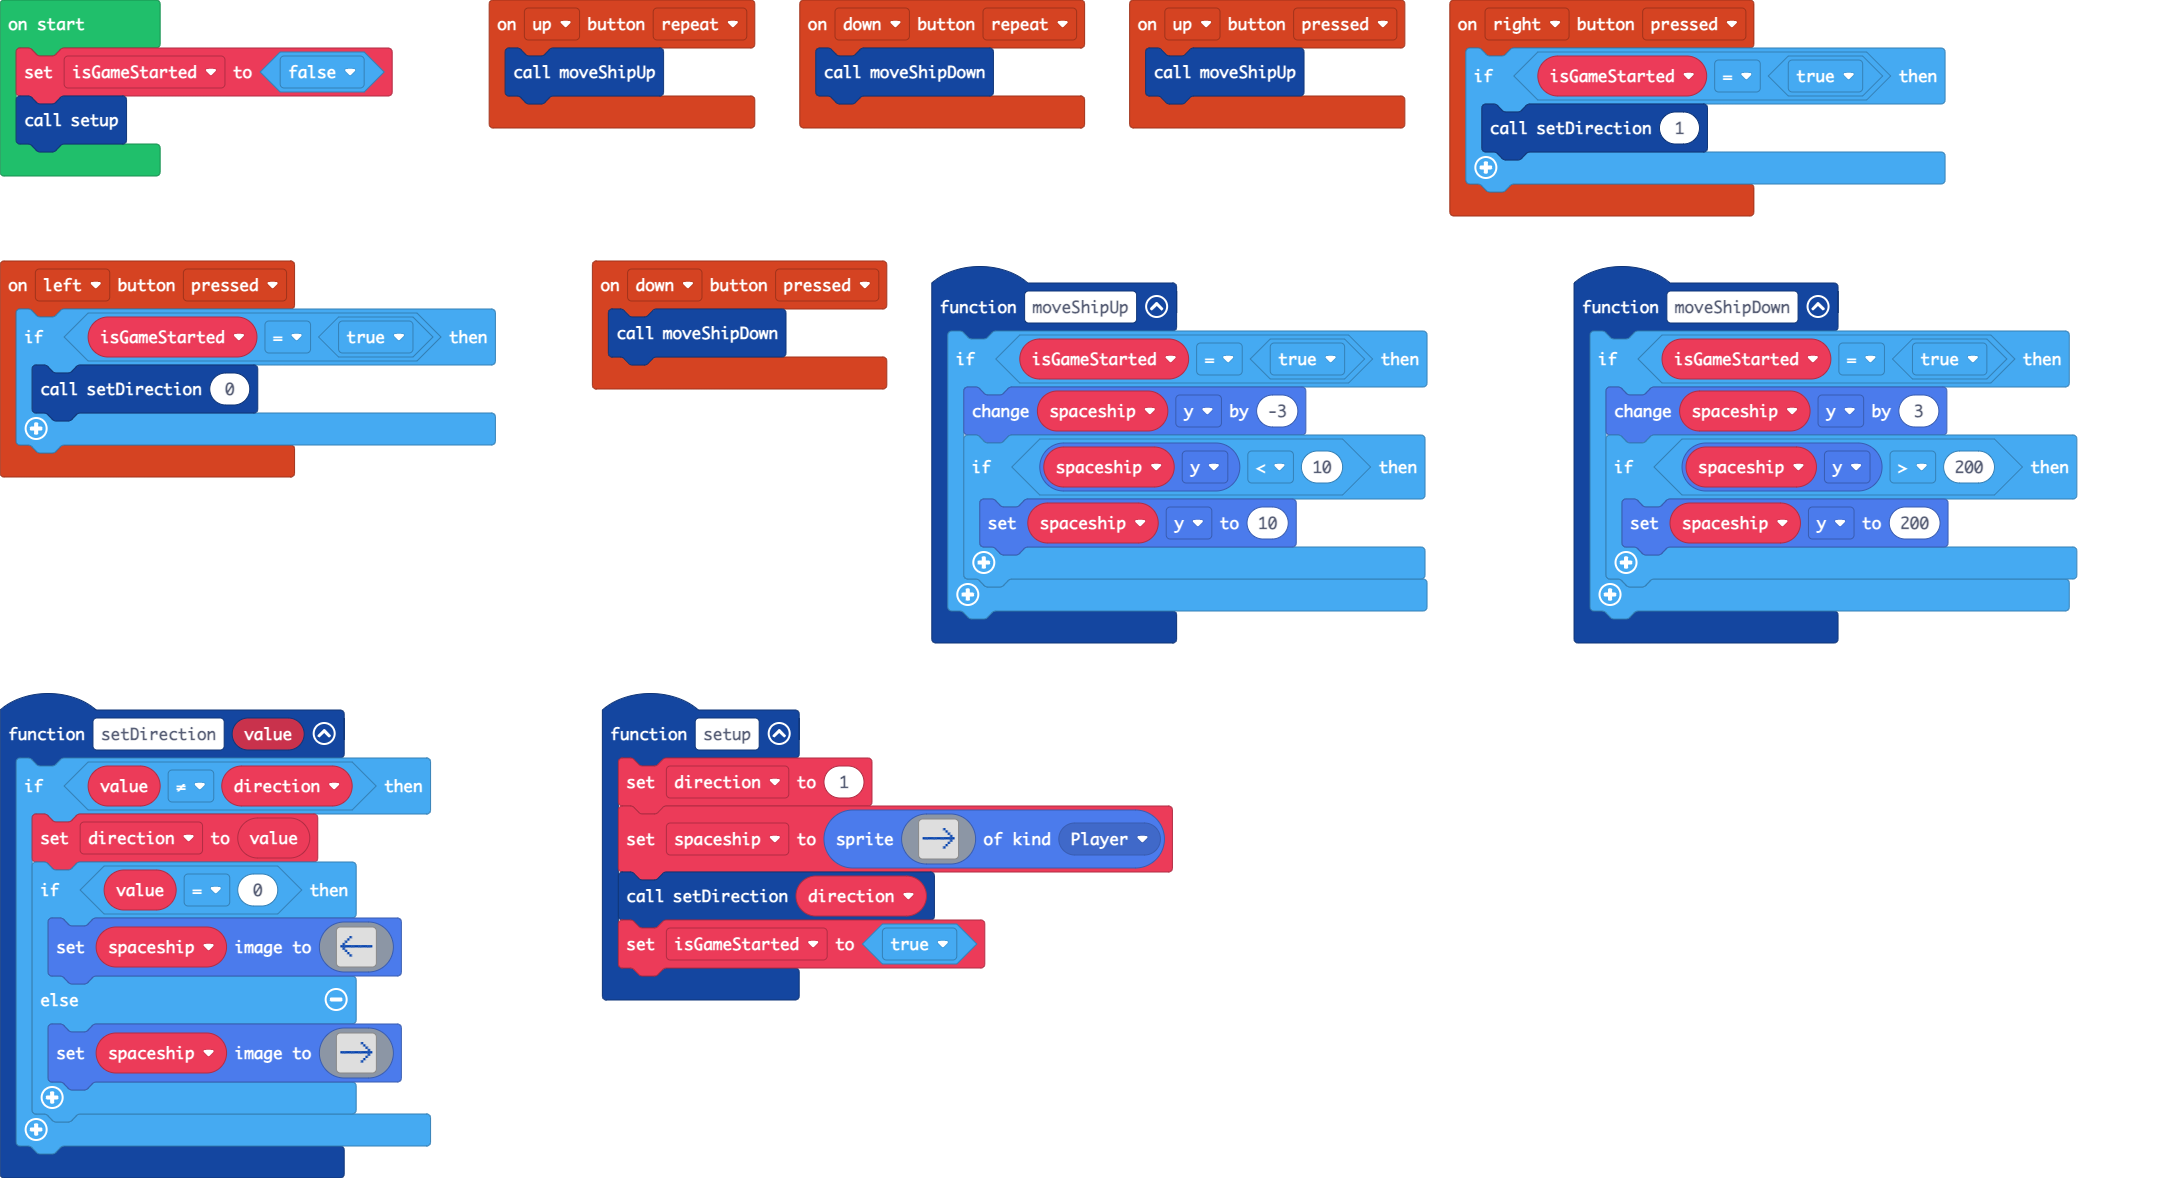
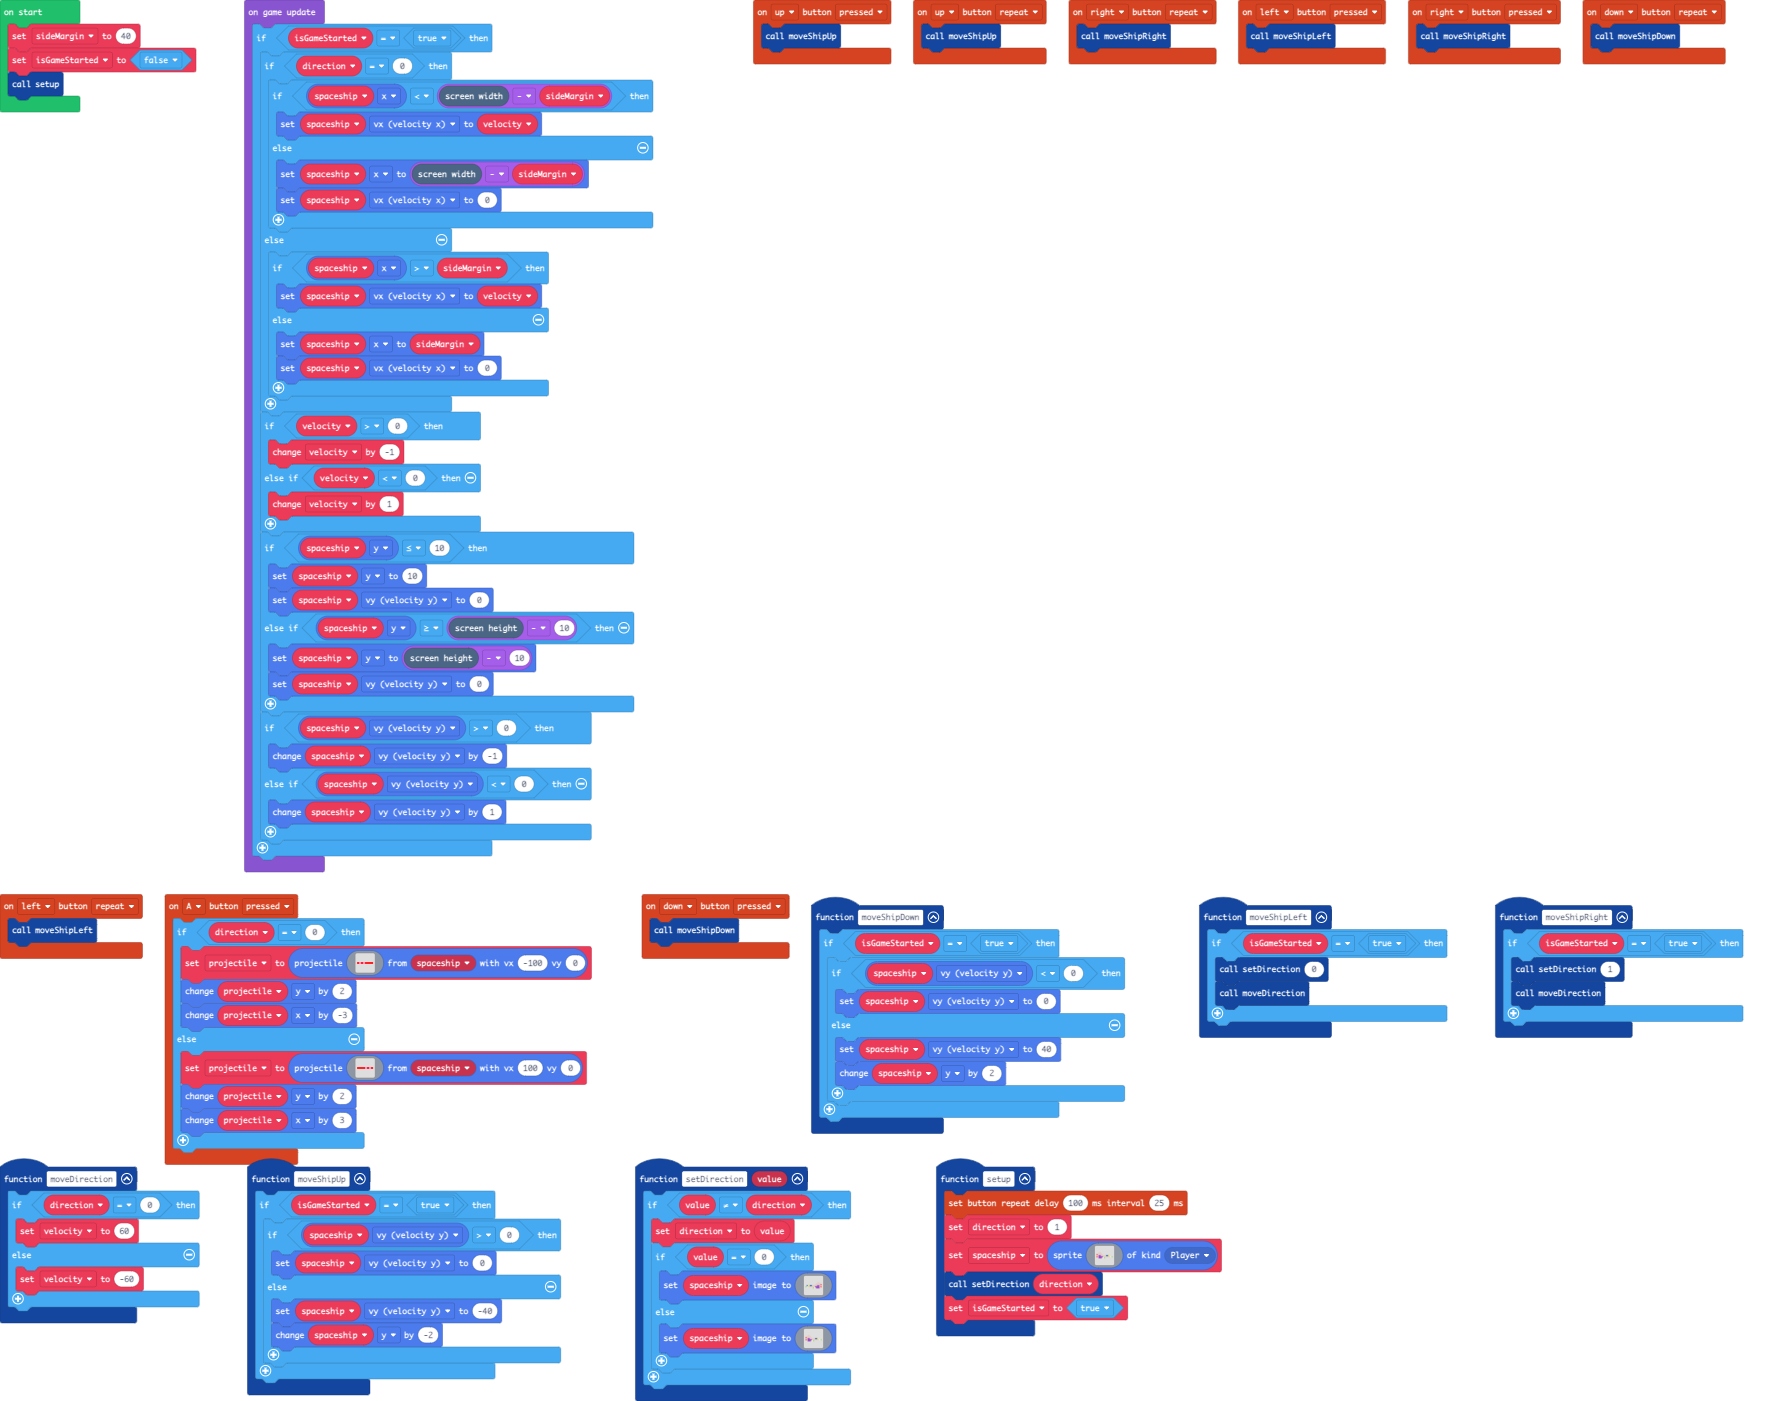
Spaceship moves left/right and shoots projectile

diff --git a/main.ts b/main.ts
@@ -3,11 +3,9 @@ controller.up.onEvent(ControllerButtonEvent.Pressed, function () {
 })
 function moveShipUp () {
     if (isGameStarted == true) {
-        if (spaceship.y <= 10) {
-            spaceship.y = 10
+        if (spaceship.vy > 0) {
             spaceship.vy = 0
-        }
-        else {
+        } else {
             spaceship.vy = -40
             spaceship.y += -2
         }
@@ -16,46 +14,49 @@ function moveShipUp () {
 controller.up.onEvent(ControllerButtonEvent.Repeated, function () {
     moveShipUp()
 })
+controller.A.onEvent(ControllerButtonEvent.Pressed, function () {
+    if (direction == 0) {
+        projectile = sprites.createProjectileFromSprite(assets.image`missleLeft`, spaceship, -100, 0)
+        projectile.y += 2
+        projectile.x += -3
+    } else {
+        projectile = sprites.createProjectileFromSprite(assets.image`missleRight`, spaceship, 100, 0)
+        projectile.y += 2
+        projectile.x += 3
+    }
+})
+controller.right.onEvent(ControllerButtonEvent.Repeated, function () {
+    moveShipRight()
+})
 controller.left.onEvent(ControllerButtonEvent.Pressed, function () {
+    moveShipLeft()
+})
+function moveShipLeft () {
     if (isGameStarted == true) {
         setDirection(0)
-    }
-})
-function moveShipDown () {
-    if (isGameStarted == true) {
-        spaceship.vy = 40
-        spaceship.y += 2
-        // if (spaceship.y > (scene.screenHeight() - 10)) {
-        //     spaceship.y = scene.screenHeight() - 10
-        // }
+        moveDirection()
     }
 }
-
-game.onUpdate(function() {
+function moveShipDown () {
     if (isGameStarted == true) {
-        if (spaceship.y <= 10) {
-            spaceship.y = 10
+        if (spaceship.vy < 0) {
             spaceship.vy = 0
-        }
-        else if (spaceship.y >= (scene.screenHeight() - 10)) {
-            spaceship.y = scene.screenHeight() - 10
-            spaceship.vy = 0
-        }
-
-        if (spaceship.vy > 0) {
-            spaceship.vy += -1
-        }
-        else if (spaceship.vy < 0) {
-            spaceship.vy += 1
+        } else {
+            spaceship.vy = 40
+            spaceship.y += 2
         }
     }
-})
-
+}
 controller.right.onEvent(ControllerButtonEvent.Pressed, function () {
-    if (isGameStarted == true) {
-        setDirection(1)
-    }
+    moveShipRight()
 })
+function moveDirection () {
+    if (direction == 0) {
+        velocity = 60
+    } else {
+        velocity = -60
+    }
+}
 controller.down.onEvent(ControllerButtonEvent.Repeated, function () {
     moveShipDown()
 })
@@ -63,11 +64,17 @@ controller.down.onEvent(ControllerButtonEvent.Pressed, function () {
     moveShipDown()
 })
 function setup () {
-    controller.configureRepeatEventDefaults(100, 20)
+    controller.configureRepeatEventDefaults(100, 25)
     direction = 1
     spaceship = sprites.create(assets.image`Spaceship Right`, SpriteKind.Player)
     setDirection(direction)
     isGameStarted = true
+}
+function moveShipRight () {
+    if (isGameStarted == true) {
+        setDirection(1)
+        moveDirection()
+    }
 }
 function setDirection (value: number) {
     if (value != direction) {
@@ -79,8 +86,50 @@ function setDirection (value: number) {
         }
     }
 }
+controller.left.onEvent(ControllerButtonEvent.Repeated, function () {
+    moveShipLeft()
+})
+let velocity = 0
+let projectile: Sprite = null
 let direction = 0
 let spaceship: Sprite = null
 let isGameStarted = false
+let sideMargin = 40
 isGameStarted = false
 setup()
+game.onUpdate(function () {
+    if (isGameStarted == true) {
+        if (direction == 0) {
+            if (spaceship.x < scene.screenWidth() - sideMargin) {
+                spaceship.vx = velocity
+            } else {
+                spaceship.x = scene.screenWidth() - sideMargin
+                spaceship.vx = 0
+            }
+        } else {
+            if (spaceship.x > sideMargin) {
+                spaceship.vx = velocity
+            } else {
+                spaceship.x = sideMargin
+                spaceship.vx = 0
+            }
+        }
+        if (velocity > 0) {
+            velocity += -1
+        } else if (velocity < 0) {
+            velocity += 1
+        }
+        if (spaceship.y <= 10) {
+            spaceship.y = 10
+            spaceship.vy = 0
+        } else if (spaceship.y >= scene.screenHeight() - 10) {
+            spaceship.y = scene.screenHeight() - 10
+            spaceship.vy = 0
+        }
+        if (spaceship.vy > 0) {
+            spaceship.vy += -1
+        } else if (spaceship.vy < 0) {
+            spaceship.vy += 1
+        }
+    }
+})

diff --git a/images.g.ts b/images.g.ts
@@ -3,29 +3,31 @@ namespace myImages {
 
     helpers._registerFactory("image", function(name: string) {
         switch(helpers.stringTrim(name)) {
-            case "6g*Sl9G{([Bm9/`EtT0g":
-            case "Spaceship Left":return img`
-. . . . 8 . . . . . . . . . 
-. . . 8 . . . . . . . . . . 
-. . 8 . . . . . . . . . . . 
-. 8 . . . . . . . . . . . . 
-8 8 8 8 8 8 8 8 8 8 8 8 8 8 
-. 8 . . . . . . . . . . . . 
-. . 8 . . . . . . . . . . . 
-. . . 8 . . . . . . . . . . 
-. . . . 8 . . . . . . . . . 
-`;
             case "image1":
             case "Spaceship Right":return img`
-. . . . . . . . . 8 . . . . 
-. . . . . . . . . . 8 . . . 
-. . . . . . . . . . . 8 . . 
-. . . . . . . . . . . . 8 . 
-8 8 8 8 8 8 8 8 8 8 8 8 8 8 
-. . . . . . . . . . . . 8 . 
-. . . . . . . . . . . 8 . . 
-. . . . . . . . . . 8 . . . 
-. . . . . . . . . 8 . . . . 
+. . d d . . . . . . . . . . . 
+. d d d d . . . . . . . . . . 
+2 d d d d d . . . . . . . . . 
+. d a a d d d d d 8 8 5 . . . 
+2 d a a a a d d d d d d d 1 7 
+. . a a a d 1 7 . . . . . . . 
+`;
+            case "6g*Sl9G{([Bm9/`EtT0g":
+            case "Spaceship Left":return img`
+. . . . . . . . . . . d d . . 
+. . . . . . . . . . d d d d . 
+. . . . . . . . . d d d d d 2 
+. 8 . 5 8 8 d d d d d a a d . 
+7 1 d d d d d d d a a a a d 2 
+. . . . . . . 7 1 d a a a . . 
+`;
+            case "image2":
+            case "missleRight":return img`
+2 2 2 2 3 2 3 2 
+`;
+            case "image3":
+            case "missleLeft":return img`
+2 3 2 3 2 2 2 2 
 `;
         }
         return null;
